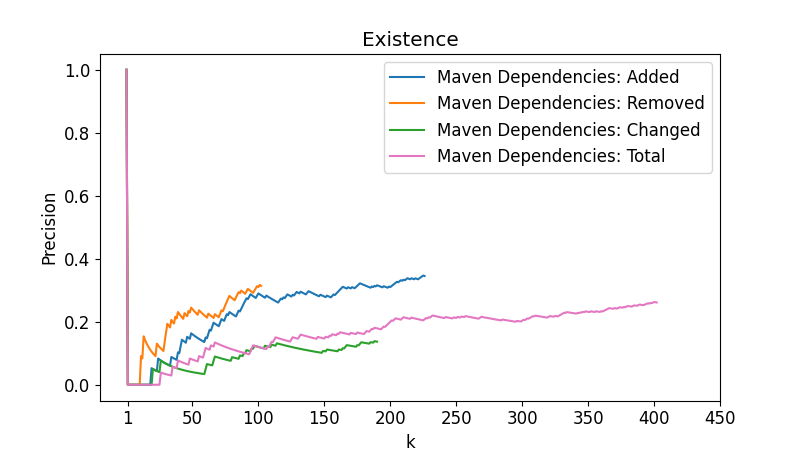
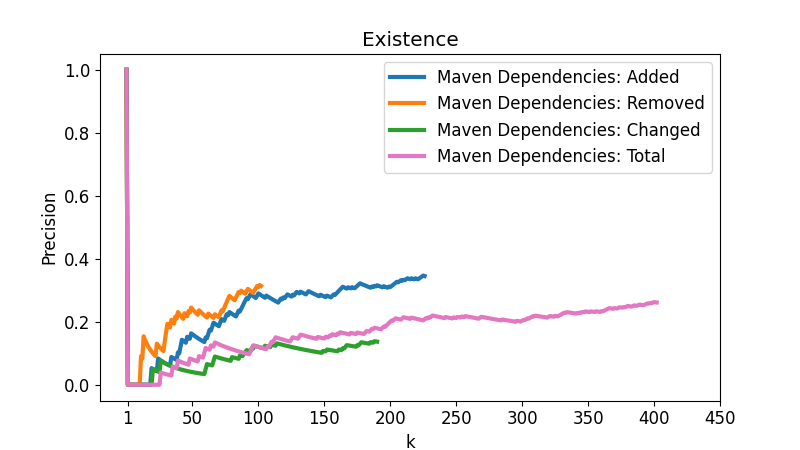
Make line thickness settable and increase

diff --git a/Statistics/script-2-precision.py b/Statistics/script-2-precision.py
@@ -2,7 +2,7 @@ from matplotlib import pyplot as plt
 
 from script_shared import annotated, bottomup
 from script_shared import get_top_down_issues, get_maven_issues, get_bottom_up_issues
-from script_shared import colors, plot_styles, hatches, graph_colors, font
+from script_shared import colors, plot_styles, hatches, graph_colors, font, linewidth
 
 import numpy
 
@@ -82,7 +82,7 @@ def plot_precision_data(tag = ""):
 
     for i in range(len(to_plot)):
         if graph_colors:
-            ax.plot(to_plot[i], label=labels[i], color=colors[i])
+            ax.plot(to_plot[i], label=labels[i], color=colors[i], linewidth=linewidth)
         else:
             color = '#000000'
             if i > 4:
@@ -105,10 +105,10 @@ def plot_precision_data(tag = ""):
 
     fig, ax = plt.subplots()
     if graph_colors:
-        ax.plot(maven_added_prec, label='Maven Dependencies: Added', color=colors[0])
-        ax.plot(maven_removed_prec, label='Maven Dependencies: Removed', color=colors[1])
-        ax.plot(maven_changed_prec, label='Maven Dependencies: Changed', color=colors[2])
-        ax.plot(maven_total_prec, label='Maven Dependencies: Total', color=colors[3])
+        ax.plot(maven_added_prec, label='Maven Dependencies: Added', color=colors[0], linewidth=linewidth)
+        ax.plot(maven_removed_prec, label='Maven Dependencies: Removed', color=colors[1], linewidth=linewidth)
+        ax.plot(maven_changed_prec, label='Maven Dependencies: Changed', color=colors[2], linewidth=linewidth)
+        ax.plot(maven_total_prec, label='Maven Dependencies: Total', color=colors[3], linewidth=linewidth)
     else:
         ax.plot(maven_added_prec, plot_styles[0], label='Maven Dependencies: Added', color='#000000')
         ax.plot(maven_removed_prec, plot_styles[1], label='Maven Dependencies: Removed', color='#000000')
@@ -145,9 +145,9 @@ def plot_average_precision_data(tag = ""):
     fig, ax = plt.subplots()
 
     if graph_colors:
-        ax.plot(keywords_precision, label='Keywords Searches', color=colors[0])
-        ax.plot(maven_total_prec, label='Maven Dependencies', color=colors[1])
-        ax.plot(bu_precision, label='Static SC Analysis', color=colors[2])
+        ax.plot(keywords_precision, label='Keywords Searches', color=colors[0], linewidth=linewidth)
+        ax.plot(maven_total_prec, label='Maven Dependencies', color=colors[1], linewidth=linewidth)
+        ax.plot(bu_precision, label='Static SC Analysis', color=colors[2], linewidth=linewidth)
     else:
         ax.plot(keywords_precision, plot_styles[0], label='Keywords Searches', color='#000000')
         ax.plot(maven_total_prec, plot_styles[1], label='Maven Dependencies', color='#000000')
@@ -181,9 +181,9 @@ def plot_limited_precision_data(tag = ""):
     
     fig, ax = plt.subplots()
     if graph_colors:
-        ax.plot(maven_added_prec, label='Maven Dependencies: Added', color=colors[0])
-        ax.plot(maven_removed_prec, label='Maven Dependencies: Removed', color=colors[1])
-        ax.plot(maven_changed_prec, label='Maven Dependencies: Changed', color=colors[2])
+        ax.plot(maven_added_prec, label='Maven Dependencies: Added', color=colors[0], linewidth=linewidth)
+        ax.plot(maven_removed_prec, label='Maven Dependencies: Removed', color=colors[1], linewidth=linewidth)
+        ax.plot(maven_changed_prec, label='Maven Dependencies: Changed', color=colors[2], linewidth=linewidth)
     else:
         ax.plot(maven_added_prec, plot_styles[0], label='Maven Dependencies: Added', color='#000000')
         ax.plot(maven_removed_prec, plot_styles[1], label='Maven Dependencies: Removed', color='#000000')
@@ -213,10 +213,10 @@ def plot_query_precision_data(tag = ""):
     rs_precision = rs_precision[:max_k]
 
     if graph_colors:
-        ax.plot(cac_precision, label='Components And Connectors', color=colors[0])
-        ax.plot(df_precision, label='Descision Factors', color=colors[1])
-        ax.plot(r_precision, label='Rationale', color=colors[2])
-        ax.plot(rs_precision, label='Reusable Solutions', color=colors[3])
+        ax.plot(cac_precision, label='Components And Connectors', color=colors[0], linewidth=linewidth)
+        ax.plot(df_precision, label='Descision Factors', color=colors[1], linewidth=linewidth)
+        ax.plot(r_precision, label='Rationale', color=colors[2], linewidth=linewidth)
+        ax.plot(rs_precision, label='Reusable Solutions', color=colors[3], linewidth=linewidth)
     else:
         ax.plot(cac_precision, plot_styles[0], label='Components And Connectors', color='#000000')
         ax.plot(df_precision, plot_styles[1], label='Descision Factors', color='#000000')

diff --git a/Statistics/script_shared.py b/Statistics/script_shared.py
@@ -67,6 +67,8 @@ font = {
     'size': 12
 }
 
+linewidth = 3.0
+
 # Filters a list of issues by project
 def filter_project(issues, project):
     if not project:
